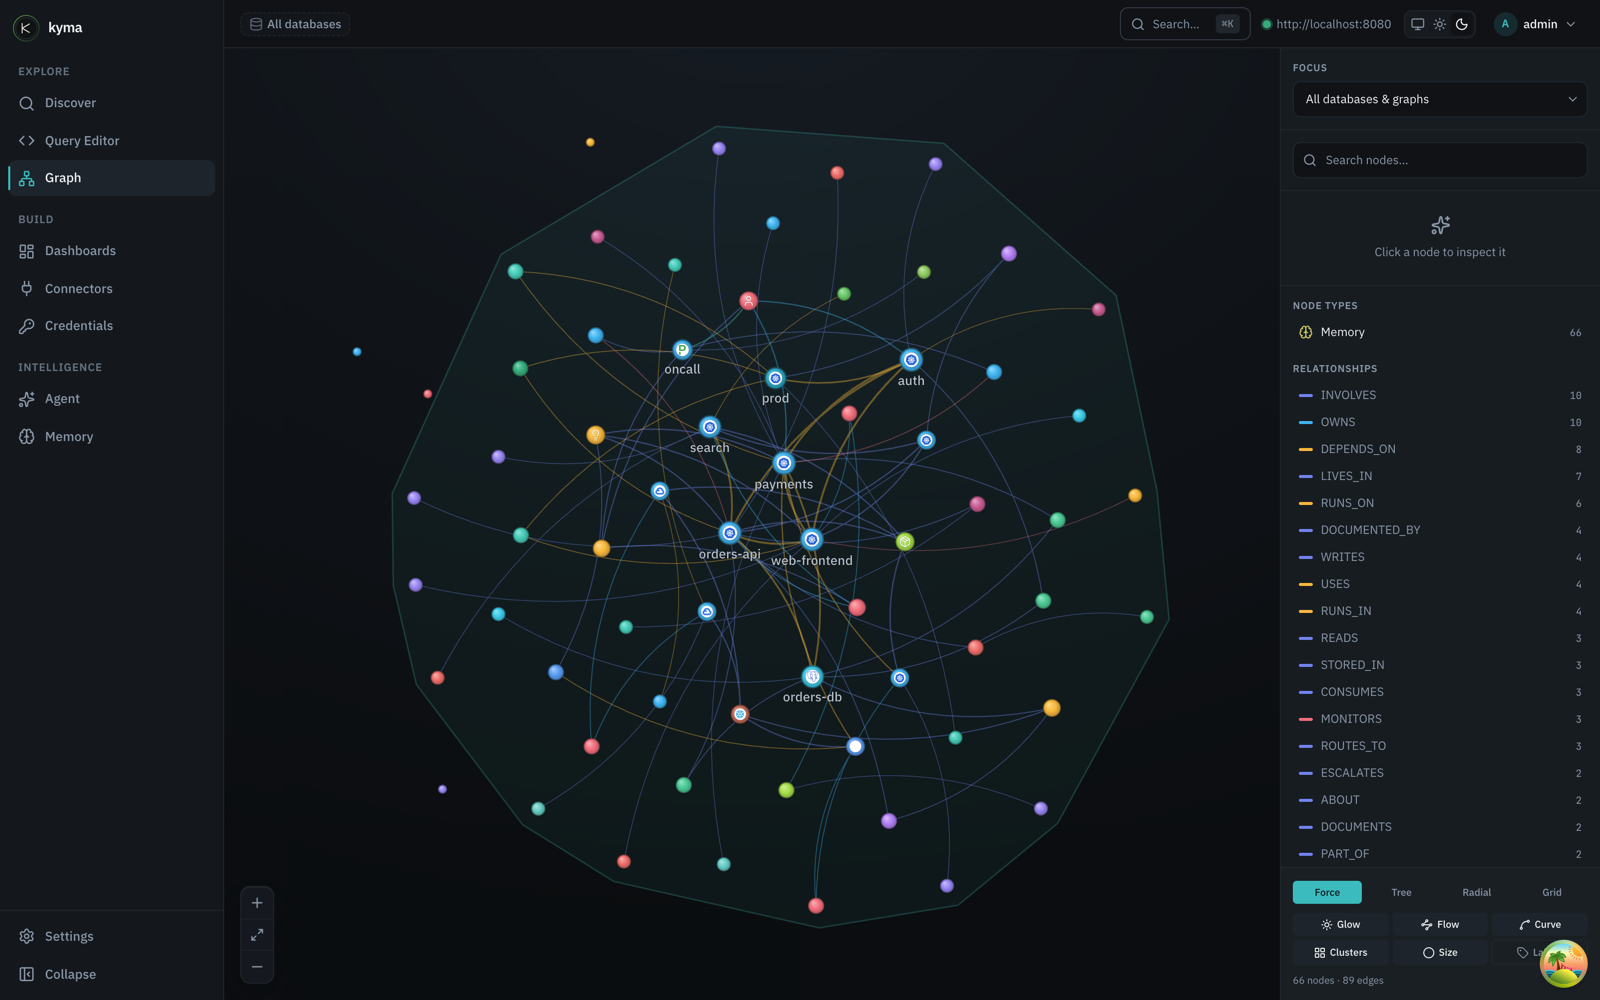
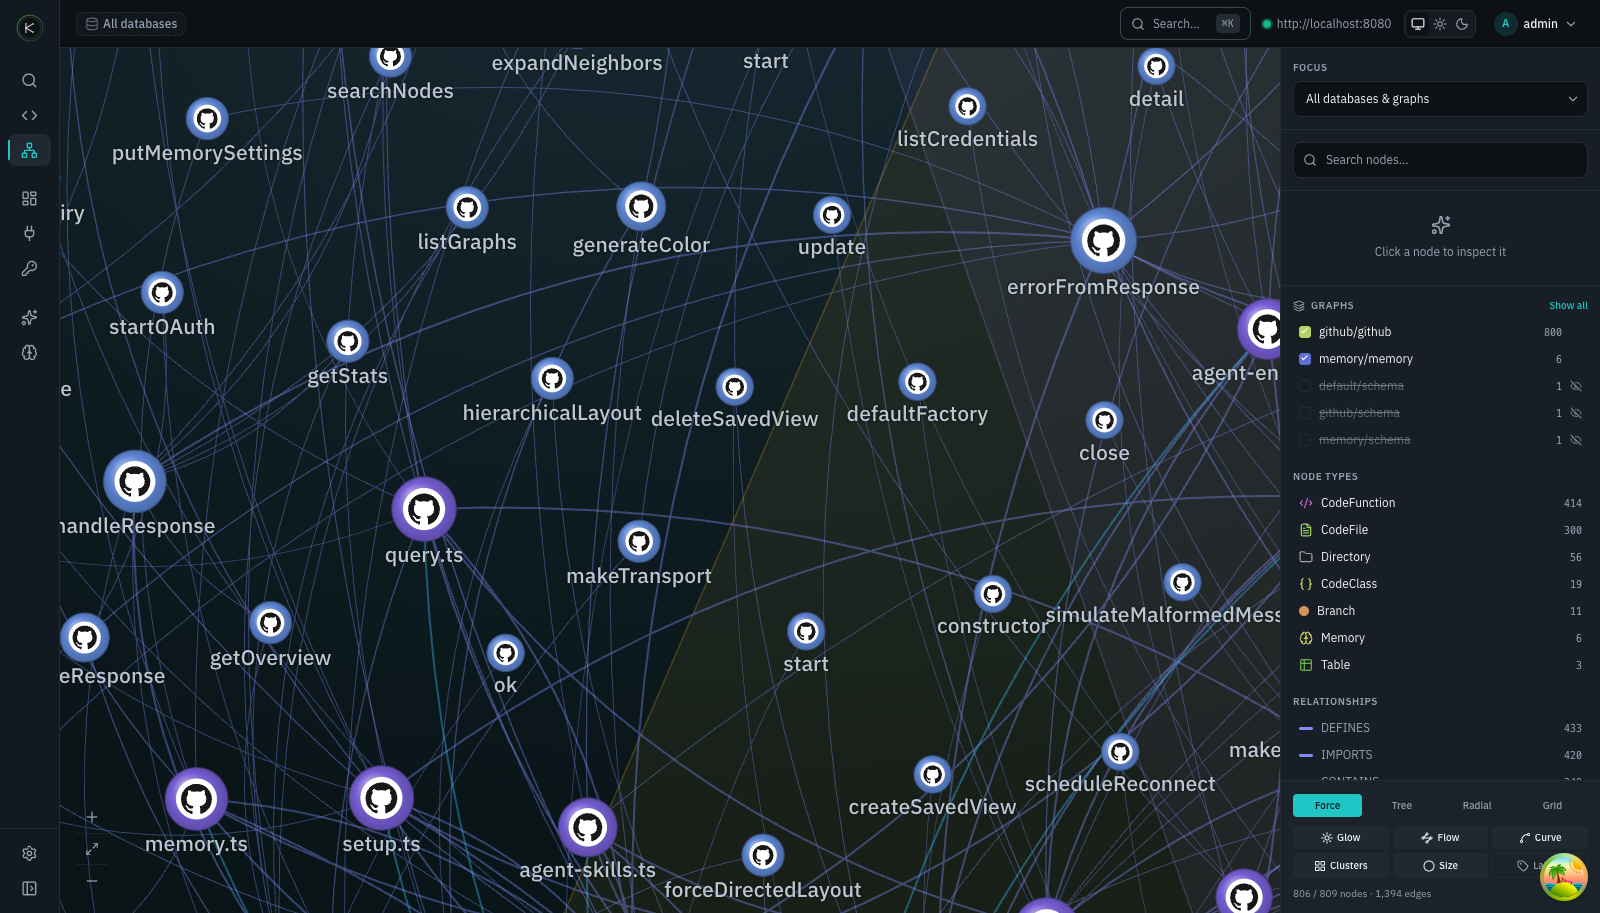
docs(readme): refreshed graph visuals — rich code-graph captures + animated zoom
New hero: the unified context graph with 800+ nodes (deterministic code
graph from a connected repo + memories + entities + hulls). New detail
shot at function level, and an animated zoom GIF (overview → individual
functions) showing the canvas depth. Captured from a live deploy.

diff --git a/README.md b/README.md
@@ -36,7 +36,7 @@
 ---
 
 <p align="center">
-  <img src="docs/images/graph-explorer.png" alt="Kyma's Graph Explorer — a typed, color-coded knowledge graph with real vendor brand marks: Kubernetes services, Datadog monitors, PagerDuty on-call, Kafka topics, cloud infrastructure, people, concepts, and durable memories, wired by relationship-family edges." width="1000" />
+  <img src="docs/images/graph-explorer.png" alt="Kyma's Context Graph — one canvas merging the deterministic code graph (functions, files, modules from connected repos), durable memories, logical entities, and live agent activity, clustered and wired by relationship-family edges." width="1000" />
 </p>
 <p align="center"><em>Your services, infra, repos, people — and your agent's memories — as one living, typed knowledge graph.</em></p>
 
@@ -247,7 +247,9 @@ type**, sized by connectivity, and carry **classification icons**: real vendor b
 `datadog::monitor`. Edges are colored by relationship family, communities are detected and
 shaded, and the focused neighbourhood lights up with animated flow.
 
-![The whole graph at scale — 60+ resources across services, repos, cloud infra, data stores, people, and memories merged onto one canvas, color-coded by type with community clustering and force/tree/radial/grid layouts.](docs/images/graph-explorer-detail.png)
+![Zooming from the whole context graph down to individual functions — the deterministic code graph (CodeFunction/CodeFile/Module nodes from a connected repo) merged with memories and entities on one canvas.](docs/images/graph-zoom.gif)
+
+![Function-level detail — every node is a real function, file, or module from the connected repository, wired to the memories and entities that reference it.](docs/images/graph-explorer-detail.png)
 
 The web app (hosted server, or `kyma serve`) has four first-class surfaces:
 
